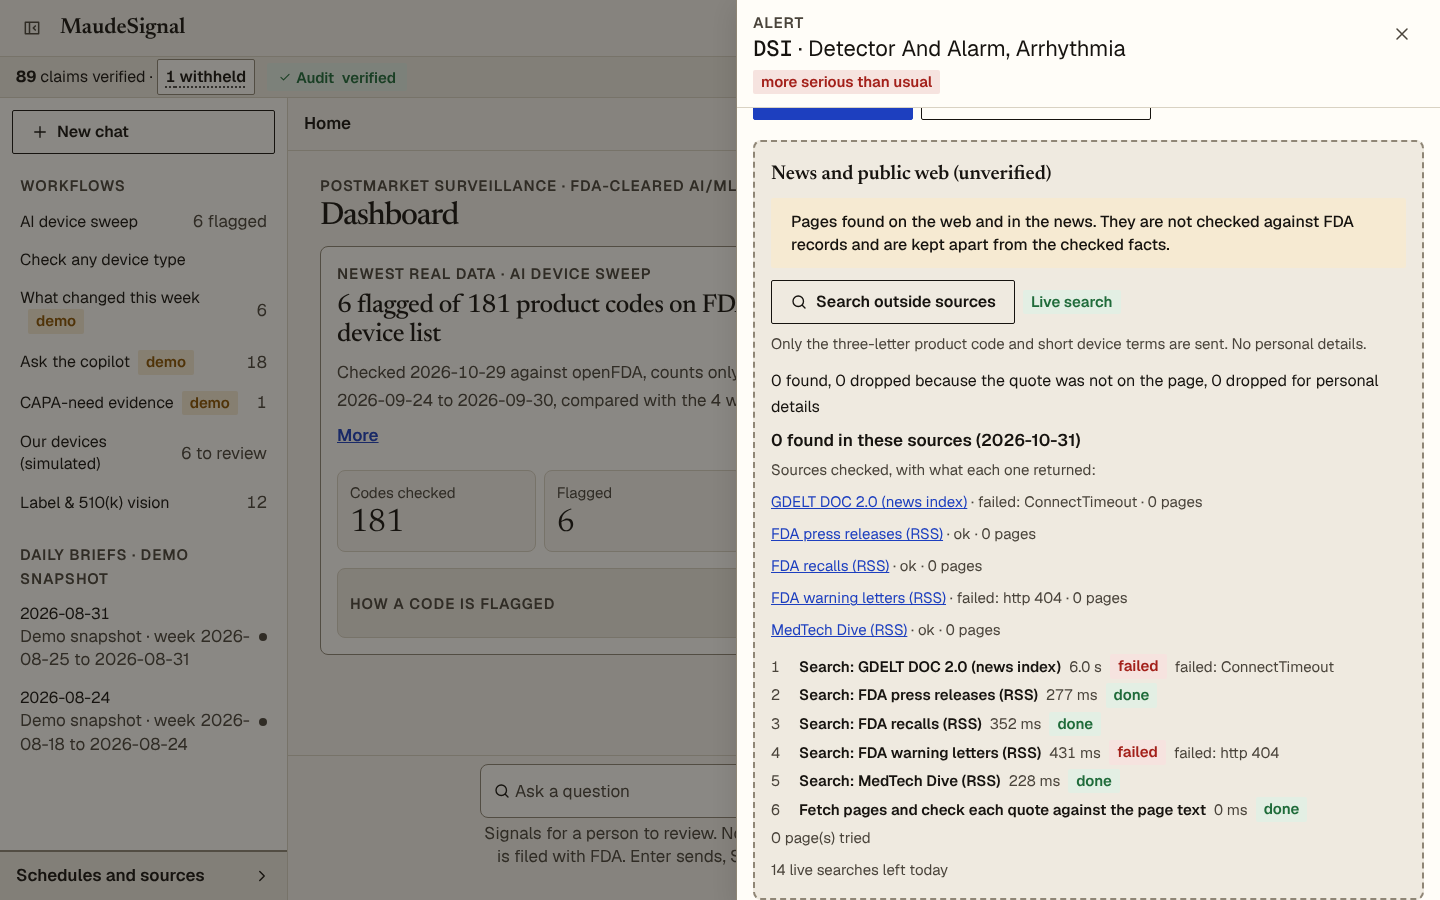
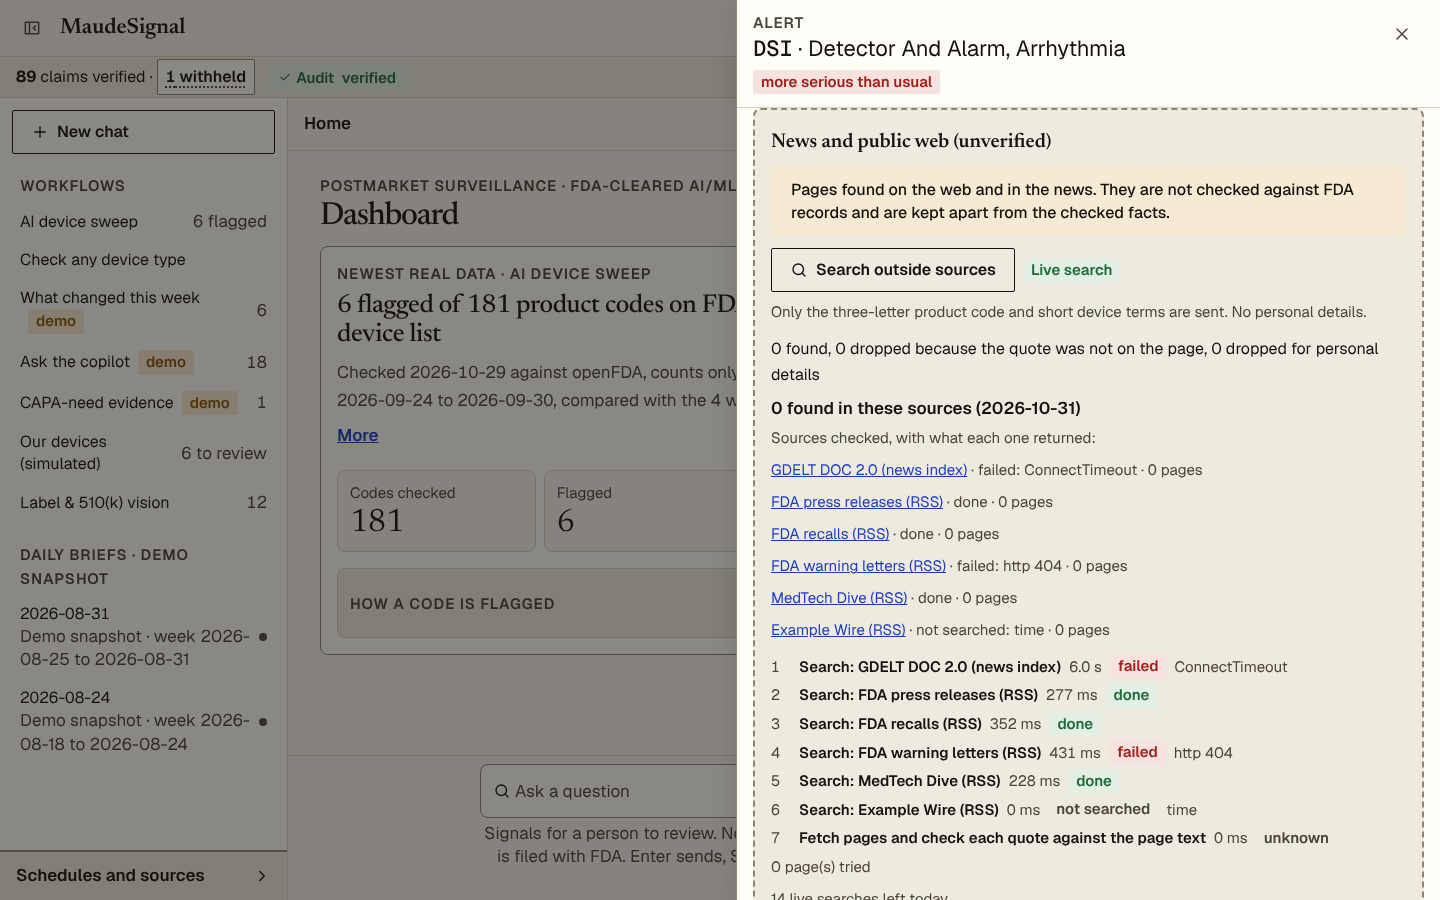
fix(web): map outside-mention statuses by prefix, drop MassDevice, connect status wording
ok* = done, failed* = failed (reason shown), skipped* = not searched, else unknown;
one mapping for the steps and the source list. Docs copied from track-c-submit.

Claude-Session: https://claude.ai/code/session_01SawpACqLLsGWXrK6TBXRho

diff --git a/web/src/mentionsStatus.test.tsx b/web/src/mentionsStatus.test.tsx
@@ -1,0 +1,100 @@
+// Regression tests for the outside-mentions status mapping, using the real stored LLZ file and the API's real status strings.
+// @vitest-environment jsdom
+import { readFileSync } from 'node:fs'
+import { resolve } from 'node:path'
+import { act } from 'react'
+import { createRoot, type Root } from 'react-dom/client'
+import { afterEach, beforeEach, describe, expect, it } from 'vitest'
+import { MentionsBox } from './components/MentionsBox'
+import { classifyStatus, parseMentions, statusLabel, storedMentions, zeroLine, type MentionsFile } from './mentions'
+
+;(globalThis as unknown as { IS_REACT_ACT_ENVIRONMENT: boolean }).IS_REACT_ACT_ENVIRONMENT = true
+
+const file = JSON.parse(readFileSync(resolve(__dirname, '../public/data/mentions.json'), 'utf8')) as MentionsFile
+const llz = storedMentions(file, 'LLZ')
+
+let host: HTMLDivElement
+let root: Root
+beforeEach(() => {
+  host = document.createElement('div')
+  document.body.appendChild(host)
+  root = createRoot(host)
+})
+afterEach(() => {
+  act(() => root.unmount())
+  host.remove()
+})
+
+describe('status mapping by prefix', () => {
+  it('maps the real API strings', () => {
+    expect(statusLabel('ok')).toBe('done')
+    expect(statusLabel('failed: ConnectTimeout')).toBe('failed: ConnectTimeout')
+    expect(statusLabel('failed: http 404')).toBe('failed: http 404')
+    expect(statusLabel('skipped: time')).toBe('not searched: time')
+    expect(statusLabel('skipped')).toBe('not searched')
+  })
+  it('anything else is unknown, never done', () => {
+    for (const raw of ['', '0 page(s) tried', 'weird', 'done', 'pending']) {
+      expect(classifyStatus(raw).kind).toBe('unknown')
+      expect(statusLabel(raw).startsWith('unknown')).toBe(true)
+    }
+    expect(classifyStatus(undefined).kind).toBe('unknown')
+  })
+})
+
+describe('the real stored LLZ file', () => {
+  it('has no MassDevice anywhere in the stored file or the parsed result', () => {
+    expect(JSON.stringify(file).toLowerCase()).not.toContain('massdevice')
+    expect(JSON.stringify(llz).toLowerCase()).not.toContain('massdevice')
+  })
+  it('filters MassDevice out of a live answer in both the sources and the steps', () => {
+    const r = parseMentions({
+      mentions: [],
+      sources_tried: [{ name: 'MassDevice (RSS)', url: 'https://www.massdevice.com/feed/', status: 'failed: http 403', n: 0 }],
+      trace: [{ step: 'Search: MassDevice (RSS)', status: 'failed: http 403', ms: 1 }],
+    })!
+    expect(r.sources_tried).toEqual([])
+    expect(r.trace).toEqual([])
+  })
+  it('source list and steps agree for every source', () => {
+    expect(llz).not.toBeNull()
+    const steps = llz!.trace.filter((s) => s.step.startsWith('Search: '))
+    expect(steps.length).toBe(llz!.sources_tried.length)
+    for (const s of llz!.sources_tried) {
+      const step = steps.find((t) => t.step === `Search: ${s.name}`)!
+      const kind = classifyStatus(s.status).kind
+      const want = { done: 'ok', failed: 'failed', not_searched: 'not_searched', unknown: 'unknown' }[kind]
+      expect(step.status).toBe(want)
+    }
+    const failed = llz!.sources_tried.filter((s) => s.status.startsWith('failed'))
+    expect(failed.map((s) => s.status)).toEqual(['failed: ConnectTimeout', 'failed: http 404'])
+  })
+  it('renders the zero state: failed rows say failed with the reason, steps agree, none say done', () => {
+    act(() => root.render(<MentionsBox code="LLZ" apiBase={null} stored={llz} />))
+    expect(host.querySelector('[data-testid=mentions-zero-line]')?.textContent).toBe(zeroLine(llz!.searched_utc))
+    const rows = [...host.querySelectorAll('[data-testid=source-row]')].map((e) => e.textContent ?? '')
+    expect(rows).toHaveLength(llz!.sources_tried.length)
+    expect(rows.filter((r) => r.includes('failed: ConnectTimeout'))).toHaveLength(1)
+    expect(rows.filter((r) => r.includes('failed: http 404'))).toHaveLength(1)
+    expect(rows.filter((r) => r.includes('done'))).toHaveLength(3)
+    const steps = [...host.querySelectorAll('[data-testid=trace-step]')].map((e) => e.textContent ?? '')
+    const search = steps.filter((t) => t.includes('Search:'))
+    expect(search.filter((t) => t.includes('failed'))).toHaveLength(2)
+    expect(search.filter((t) => t.includes('done'))).toHaveLength(3)
+    expect(steps.some((t) => t.includes('Fetch pages') && t.includes('unknown') && !t.includes('done'))).toBe(true)
+    expect(host.textContent?.toLowerCase()).not.toContain('massdevice')
+  })
+  it('shows a skipped source as not searched with its reason in both places', () => {
+    const r = parseMentions({
+      mentions: [],
+      sources_tried: [{ name: 'Example Wire', url: 'https://example.com/f', status: 'skipped: time', n: 0 }],
+      trace: [{ step: 'Search: Example Wire', status: 'skipped: time', ms: 0 }],
+    })!
+    act(() => root.render(<MentionsBox code="LLZ" apiBase={null} stored={r} />))
+    expect(host.querySelector('[data-testid=source-row]')?.textContent).toContain('not searched: time')
+    const step = host.querySelector('[data-testid=trace-step]')?.textContent ?? ''
+    expect(step).toContain('not searched')
+    expect(step).toContain('time')
+    expect(step).not.toContain('done')
+  })
+})

diff --git a/web/src/mentions.ts b/web/src/mentions.ts
@@ -102,11 +102,26 @@ export function zeroLine(searchedUtc: string): string {
   return `0 found in these sources (${d})`
 }
 
-/** "ok" stays "ok"; anything else is shown as "failed: reason" so a silent failure is never read as "nothing there". */
+export type StatusKind = 'done' | 'failed' | 'not_searched' | 'unknown'
+
+/** One mapping for the trace and the source list, by prefix: ok* = done, failed* = failed, skipped* = not searched, else unknown (never "done"). */
+export function classifyStatus(raw: unknown): { kind: StatusKind; reason: string } {
+  const t = typeof raw === 'string' ? raw.trim() : ''
+  const lower = t.toLowerCase()
+  const i = t.indexOf(':')
+  const after = i >= 0 ? t.slice(i + 1).trim() : ''
+  if (lower.startsWith('ok')) return { kind: 'done', reason: '' }
+  if (lower.startsWith('failed')) return { kind: 'failed', reason: after }
+  if (lower.startsWith('skipped')) return { kind: 'not_searched', reason: after }
+  return { kind: 'unknown', reason: t }
+}
+
+const KIND_TEXT: Record<StatusKind, string> = { done: 'done', failed: 'failed', not_searched: 'not searched', unknown: 'unknown' }
+
+/** "done", "failed: ConnectTimeout", "not searched: time limit", "unknown: <raw>" (or just "unknown" when nothing was recorded). */
 export function statusLabel(status: string): string {
-  const s = status.trim()
-  if (!s) return 'status not recorded'
-  return s === 'ok' || /^failed/i.test(s) ? s : `failed: ${s}`
+  const { kind, reason } = classifyStatus(status)
+  return reason ? `${KIND_TEXT[kind]}: ${reason}` : KIND_TEXT[kind]
 }
 
 function parseMention(v: unknown): Mention | 'personal' | null {
@@ -130,11 +145,12 @@ function parseMention(v: unknown): Mention | 'personal' | null {
 }
 
 const traceStatus = (raw: unknown): { status: LiveTraceStep['status']; note?: string } => {
-  const t = typeof raw === 'string' ? raw.trim() : ''
-  if (t === 'skipped') return { status: 'skipped' }
-  if (/^failed/i.test(t)) return { status: 'failed', note: t }
-  if (t === '' || t === 'ok') return { status: 'ok' }
-  return { status: 'ok', note: t } // a plain remark such as "0 page(s) tried"
+  const { kind, reason } = classifyStatus(raw)
+  const note = reason || undefined
+  if (kind === 'done') return { status: 'ok' }
+  if (kind === 'failed') return { status: 'failed', ...(note ? { note } : {}) }
+  if (kind === 'not_searched') return { status: 'not_searched', ...(note ? { note } : {}) }
+  return { status: 'unknown', ...(note ? { note } : {}) }
 }
 
 const traceOf = (v: unknown): LiveTraceStep[] =>
@@ -144,7 +160,7 @@ const traceOf = (v: unknown): LiveTraceStep[] =>
         .filter((s) => !isDropped(String(s.step ?? '')) && !isDropped(String(s.note ?? '')))
         .map((s) => {
           const st = traceStatus(s.status)
-          const note = st.note ?? (typeof s.note === 'string' ? s.note : undefined)
+          const note = st.note ?? (typeof s.note === 'string' && s.note ? s.note : undefined)
           return {
             step: String(s.step ?? ''),
             model: typeof s.model === 'string' ? s.model : null,

diff --git a/web/src/alertPanel.test.tsx b/web/src/alertPanel.test.tsx
@@ -174,7 +174,7 @@ describe('MentionsBox', () => {
     const rows = Array.from(host.querySelectorAll('[data-testid=source-row]')).map((r) => r.textContent ?? '')
     expect(rows).toHaveLength(2)
     expect(rows[0]).toContain('failed: ConnectTimeout')
-    expect(rows[1]).toContain('ok')
+    expect(rows[1]).toContain('done')
     expect(rows[1]).toContain('0 pages')
     expect(host.textContent).not.toMatch(/massdevice/i)
     expect(host.textContent).not.toContain('Nothing was kept')
@@ -194,7 +194,7 @@ describe('MentionsBox', () => {
     expect(warn).not.toContain('done')
     expect(steps.find((t) => t.includes('recalls'))).toContain('done')
   })
-  it('a "failed: ConnectTimeout" trace step is failed, a skipped one skipped, anything else ok', () => {
+  it('a "failed: ConnectTimeout" trace step is failed, a skipped one not searched, anything else unknown', () => {
     const r = parseMentions({
       ...mentionsBody,
       trace: [
@@ -206,14 +206,14 @@ describe('MentionsBox', () => {
       ],
     })!
     expect(r.trace.map((t) => t.step)).toEqual(['A', 'B', 'C', 'D'])
-    expect(r.trace.map((t) => t.status)).toEqual(['failed', 'skipped', 'ok', 'ok'])
-    expect(r.trace[0].note).toBe('failed: ConnectTimeout')
+    expect(r.trace.map((t) => t.status)).toEqual(['failed', 'not_searched', 'ok', 'unknown'])
+    expect(r.trace[0].note).toBe('ConnectTimeout')
   })
   it('zeroLine and statusLabel handle missing data honestly', () => {
     expect(zeroLine('')).toBe('0 found in these sources (date not recorded)')
-    expect(statusLabel('')).toBe('status not recorded')
-    expect(statusLabel('http 500')).toBe('failed: http 500')
-    expect(statusLabel('ok')).toBe('ok')
+    expect(statusLabel('')).toBe('unknown')
+    expect(statusLabel('http 500')).toBe('unknown: http 500')
+    expect(statusLabel('ok')).toBe('done')
   })
   it('a MassDevice mention in the data is dropped', () => {
     const r = parseMentions({ ...mentionsBody, mentions: [{ source_name: 'MassDevice', source_kind: 'news', url: 'https://www.massdevice.com/a', quote: 'A sentence.', why_matched: 'x', badge: 'x' }] })!
@@ -245,7 +245,7 @@ describe('ConnectView', () => {
     expect(t).toContain('https://maudesignal-api.vercel.app/mcp')
     expect(t).toContain('https://maudesignal-api.vercel.app/openapi.json')
     expect(t).toContain('Ask Charan for a key')
-    expect(q('connect-status')?.textContent).toContain("Submitted to Meta's Muse Connector Program — pending review (submitted Oct 30). Not approved or listed.")
+    expect(q('connect-status')?.textContent).toContain("Submitted to Meta's Muse Connector Program — pending review.")
     expect(q('no-demo-key')).not.toBeNull()
     expect(q('link-privacy')?.getAttribute('href')).toBe('https://maudesignal-api.vercel.app/privacy')
     expect(q('link-terms')?.getAttribute('href')).toBe('https://maudesignal-api.vercel.app/terms')

diff --git a/web/src/components/ConnectView.tsx b/web/src/components/ConnectView.tsx
@@ -62,7 +62,7 @@ export function ConnectView({ apiBase, fetcher }: { apiBase: string | null; fetc
           Add MaudeSignal to Muse as a custom connector. It answers from stored public FDA records, read-only. Signals for a person to review; nothing is filed with FDA.
         </p>
         <p className="mt-2 max-w-2xl font-semibold text-ink" data-testid="connect-status">
-          Submitted to Meta&apos;s Muse Connector Program — pending review (submitted Oct 30). Not approved or listed.
+          Submitted to Meta&apos;s Muse Connector Program — pending review.
         </p>
       </div>
 

diff --git a/web/src/components/LiveTrace.tsx b/web/src/components/LiveTrace.tsx
@@ -10,6 +10,8 @@ const STATUS: Record<LiveTraceStep['status'], { text: string; cls: string }> = {
   ok: { text: 'done', cls: 'bg-success-soft text-success' },
   skipped: { text: 'skipped', cls: 'bg-sunk text-ink-2' },
   failed: { text: 'failed', cls: 'bg-critical-soft text-critical' },
+  not_searched: { text: 'not searched', cls: 'bg-sunk text-ink-2' },
+  unknown: { text: 'unknown', cls: 'bg-sunk text-ink-2' },
 }
 
 /** The steps of one live run, in order, each with the model that did it, its time in milliseconds and its outcome. */

diff --git a/web/src/live/api.ts b/web/src/live/api.ts
@@ -28,7 +28,7 @@ export const VOICE_NOTE = 'Audio is sent once for transcription and not stored. 
 export const PHOTO_NOTE = 'Photo is read once and not stored. Do not photograph patient details.'
 export const LIMIT_TEXT = 'Daily live limit reached - showing recorded runs'
 
-export type TraceStatus = 'ok' | 'skipped' | 'failed'
+export type TraceStatus = 'ok' | 'skipped' | 'failed' | 'not_searched' | 'unknown'
 export interface LiveTraceStep {
   step: string
   model?: string | null

diff --git a/web/qa/shoot_p.py b/web/qa/shoot_p.py
@@ -262,11 +262,11 @@ def main() -> int:
                 zero = page.get_by_test_id("mentions-zero-line").inner_text()
                 check(f"mentions zero {w} {scheme}: '0 found in these sources (date)', never an empty box", zero == "0 found in these sources (2026-10-31)" and page.get_by_test_id("mention").count() == 0, zero)
                 rows = page.get_by_test_id("source-row").all_inner_texts()
-                check(f"mentions zero {w} {scheme}: every source tried is listed with status and count", len(rows) == 5 and sum("failed: " in r for r in rows) == 2 and all("page" in r for r in rows), rows)
+                check(f"mentions zero {w} {scheme}: every source tried is listed with status and count", len(rows) == 6 and sum("failed: " in r for r in rows) == 2 and sum("not searched: time" in r for r in rows) == 1 and all("page" in r for r in rows), rows)
                 box_text = page.get_by_test_id("mentions-box").inner_text()
                 check(f"mentions zero {w} {scheme}: no MassDevice text (sources or steps)", "massdevice" not in box_text.lower())
                 steps = page.get_by_test_id("trace-step").all_inner_texts()
-                check(f"mentions zero {w} {scheme}: failed sources read failed in the steps too, never done", len(steps) == 6 and sum("failed" in t for t in steps) == 2 and not any(("GDELT" in t or "warning" in t) and "done" in t for t in steps), steps)
+                check(f"mentions zero {w} {scheme}: failed sources read failed in the steps too, never done", len(steps) == 7 and sum("failed" in t for t in steps) == 2 and sum("not searched" in t for t in steps) == 1 and sum("unknown" in t for t in steps) == 1 and not any(("GDELT" in t or "warning" in t or "Example" in t) and "done" in t for t in steps), steps)
                 check(f"mentions zero {w} {scheme}: contrast", ratio(page, "[data-testid=mentions-zero-line]") >= 4.5, ratio(page, "[data-testid=mentions-zero-line]"))
                 page.get_by_test_id("mentions-box").scroll_into_view_if_needed()
                 snap(page, "mentions-zero", w, scheme, report)

diff --git a/web/qa/live_stub.py b/web/qa/live_stub.py
@@ -458,6 +458,7 @@ class Stub:
                 {"name": "FDA warning letters (RSS)", "url": "https://www.fda.gov/about-fda/contact-fda/stay-informed/rss-feeds/warning-letters/rss.xml", "status": "failed: http 404", "n": 0},
                 {"name": "MedTech Dive (RSS)", "url": "https://www.medtechdive.com/feeds/news/", "status": "ok", "n": 0},
                 {"name": "MassDevice (RSS)", "url": "https://www.massdevice.com/feed/", "status": "failed: http 403", "n": 0},
+                {"name": "Example Wire (RSS)", "url": "https://example.com/feed/", "status": "skipped: time", "n": 0},
             ]
             trace = [
                 {"step": "Search: GDELT DOC 2.0 (news index)", "model": None, "ms": 6031, "status": "failed: ConnectTimeout"},
@@ -466,6 +467,7 @@ class Stub:
                 {"step": "Search: FDA warning letters (RSS)", "model": None, "ms": 431, "status": "failed: http 404"},
                 {"step": "Search: MedTech Dive (RSS)", "model": None, "ms": 228, "status": "ok"},
                 {"step": "Search: MassDevice (RSS)", "model": None, "ms": 173, "status": "failed: http 403"},
+                {"step": "Search: Example Wire (RSS)", "model": None, "ms": 0, "status": "skipped: time"},
                 {"step": "Fetch pages and check each quote against the page text", "model": None, "ms": 0, "status": "0 page(s) tried"},
             ]
         else:

diff --git a/README.md b/README.md
@@ -146,7 +146,7 @@ as a date (adversarial cases dt03–dt05).
 | Spoken questions | **Meta Voice Transcribe** (`muse-voice-transcribe-1.0`) | Ask by voice; only the transcript text reaches Muse Spark, and it goes through the same copilot and gate |
 | Recording the public demo | All of the above in GitHub Actions ([`copilot-record.yml`](.github/workflows/copilot-record.yml)), key from repository secrets | The public, keyless app replays real runs instead of mocked ones |
 
-**Muse connector** (read-only MCP + REST at `https://maudesignal-api.vercel.app/mcp`): Submitted to Meta's Muse Connector Program — pending review (submitted Oct 30). Not approved or listed. Form answers: [docs/hackathon/MUSE_CONNECTOR.md](docs/hackathon/MUSE_CONNECTOR.md).
+**Muse connector** (read-only MCP + REST at `https://maudesignal-api.vercel.app/mcp`): Submitted to Meta's Muse Connector Program — pending review. Form answers: [docs/hackathon/MUSE_CONNECTOR.md](docs/hackathon/MUSE_CONNECTOR.md).
 
 **Standard tier only.** Never the Contributor tier, which trains on your data.
 The key is read from `META_MODEL_API_KEY`, never committed or logged.

diff --git a/docs/hackathon/MUSE_CONNECTOR.md b/docs/hackathon/MUSE_CONNECTOR.md
@@ -6,7 +6,7 @@ Meta, Muse or anyone else has reviewed or endorsed the connector.
 
 # Form answers
 
-**Status: Submitted to Meta's Muse Connector Program — pending review (submitted Oct 30). Not approved or listed.**
+**Status: Submitted to Meta's Muse Connector Program — pending review.** Submitted Oct 31, 2026; business verification, data questionnaire and technical details complete; Meta shows "In review".
 
 Field names and limits on the live form may differ from the headings below; read the form first
 and paste from here.
@@ -640,7 +640,7 @@ and window number exactly what the gate recomputed.
 
 # Part 2. MCP server
 
-Submission status: Submitted to Meta's Muse Connector Program — pending review (submitted Oct 30). Not approved or listed.
+Submission status: Submitted to Meta's Muse Connector Program — pending review.
 
 ## Feedback and visits (private)
 

diff --git a/HACKATHON.md b/HACKATHON.md
@@ -3,7 +3,7 @@
 **Event:** Meta Global AI Developer Hackathon (Oct 26 – Nov 4, 2026)
 **Track:** Indie Developer, solo
 **Problem statement:** Build for Your World
-**Muse connector:** Submitted to Meta's Muse Connector Program — pending review (submitted Oct 30). Not approved or listed. Read-only MCP + REST at `https://maudesignal-api.vercel.app/mcp`; form answers in `docs/hackathon/MUSE_CONNECTOR.md`.
+**Muse connector:** Submitted to Meta's Muse Connector Program — pending review. Read-only MCP + REST at `https://maudesignal-api.vercel.app/mcp`; form answers in `docs/hackathon/MUSE_CONNECTOR.md`.
 
 ## What was built DURING the hackathon (new work — this is the submission)
 

diff --git a/docs/hackathon/SUBMISSION_DRAFT.md b/docs/hackathon/SUBMISSION_DRAFT.md
@@ -34,6 +34,7 @@ recorded run or a test in this repository (sources in brackets).
 | Muse Wonder 1.0 | Independent review of the evidence-pack PDF before a person accepts it | `demo/dossier/*-review.json` |
 | Voice Transcribe | Spoken questions → the same gated copilot | `demo/transcripts/*00-voice-*.json` |
 | SAM 3.1 | Finds the label in a device photo before Muse Spark reads it | `demo/vision/label-*.json`: 7 photos read, thermometer → product code FLL |
+| Muse connector | Submitted to Meta's Muse Connector Program — pending review. | `docs/hackathon/MUSE_CONNECTOR.md` |
 
 ## Results (real runs, 2026-10-28)
 
